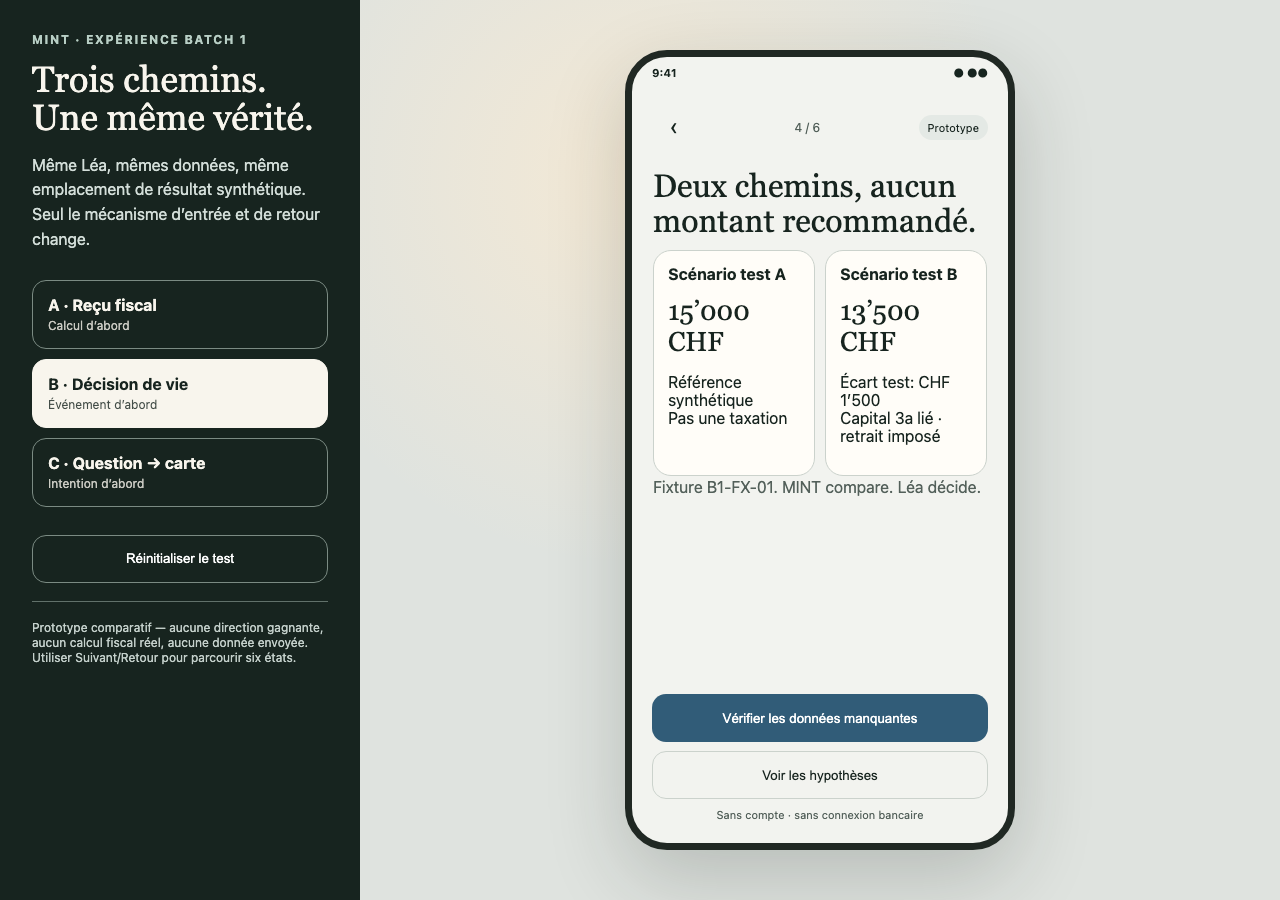
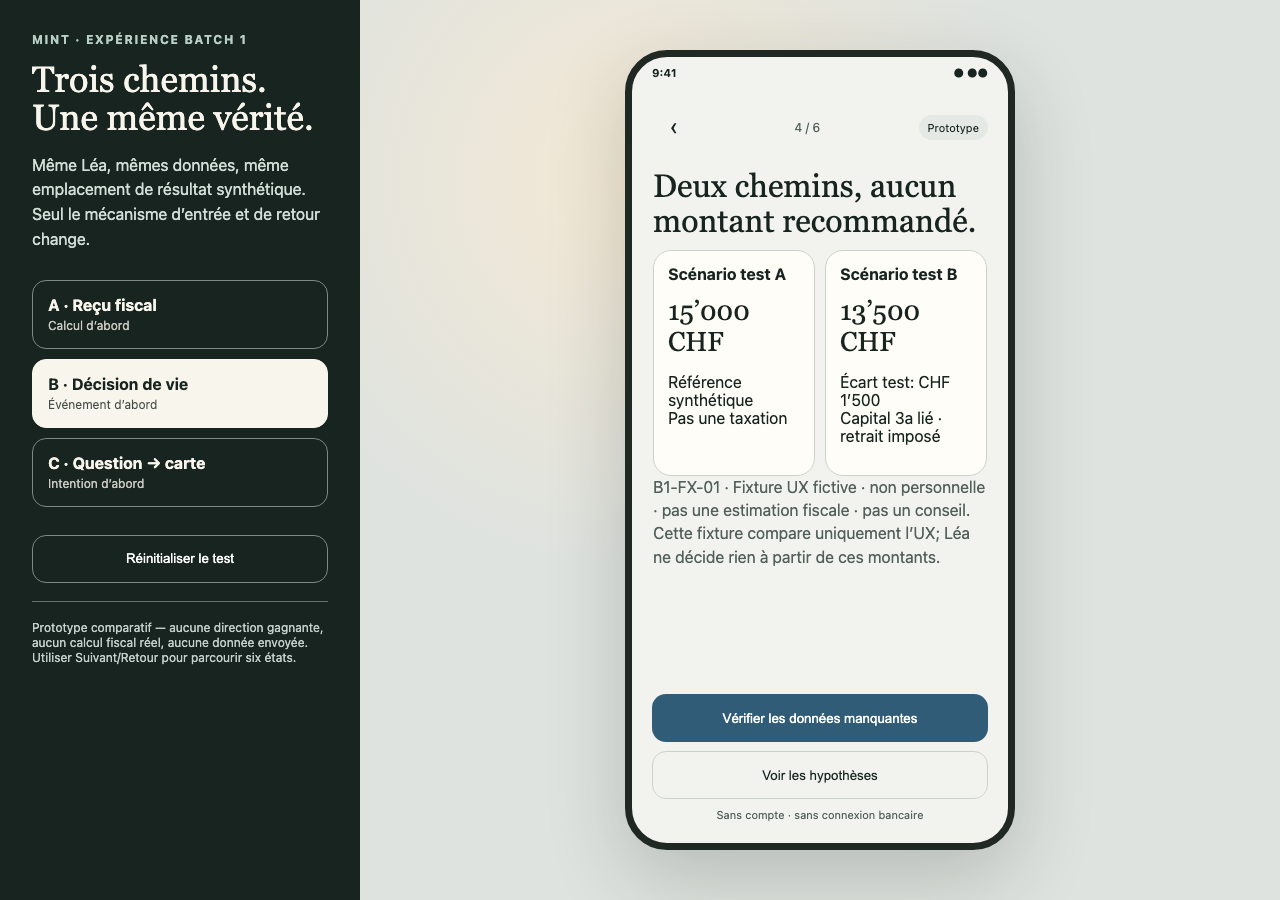
fix(mint-next): bind fixture safety semantics

Changed region(s): [[0.5, 0.5289, 0.7812, 0.6222]]

diff --git a/product/mint_next/batch1/prototype/index.html b/product/mint_next/batch1/prototype/index.html
@@ -39,29 +39,29 @@
   </section>
 </main>
 <script>
-const common={name:'Léa',canton:'Vaud',municipality:'Lausanne',income:"108’000 CHF",fixture:"CHF 1’500",fixtureId:'B1-FX-01',year:'2026',contribution:"2’400 CHF"};
+const common={name:'Léa',canton:'Vaud',municipality:'Lausanne',income:"108’000 CHF",fixture:"CHF 1’500",fixtureId:'B1-FX-01',year:'2026',contribution:"2’400 CHF",disclaimer:'Fixture UX fictive · non personnelle · pas une estimation fiscale · pas un conseil'};
 const state={corrections:{a:{},b:{},c:{}},saved:false};
 const edit=(label,value,alternative=`${value} · corrigé`)=>{const corrected=Boolean(state.corrections[dir]?.[label]);return `<button class="choice editable${corrected?' selected':''}" data-edit="${label}" aria-pressed="${corrected}"><span>${label}</span><b>${corrected?alternative:value}</b></button>`};
 const dirs={
 a:{cls:'direction-a',cta:['Commencer','Continuer','Préparer le scénario','Vérifier les données manquantes','Continuer','Enregistrer ce cap'],screens:[
-()=>`<div class="eyebrow">Fiscalité ${common.year}</div><h2>Quel pourrait être l’effet fiscal d’un versement 3a ?</h2><p class="lead">Quelques réponses préparent le calcul. Cette maquette n’en produit aucun.</p><div class="receipt"><div class="proof"><span>Compte requis</span><b>Non</b></div><div class="proof"><span>Temps cible</span><b>≈ 90 sec</b></div></div>`,
+()=>`<div class="eyebrow">Fiscalité ${common.year}</div><h2>Quel pourrait être l’effet fiscal d’un versement 3a ?</h2><p class="lead">Quelques réponses préparent le calcul. Cette maquette ne produit aucune estimation fiscale personnelle.</p><div class="receipt"><div class="proof"><span>Compte requis</span><b>Non</b></div><div class="proof"><span>Temps cible</span><b>≈ 90 sec</b></div></div>`,
 ()=>`<h2>Posons le contexte.</h2><p class="lead">Active un champ pour simuler sa correction.</p><div class="choices">${edit('Commune',common.municipality,'Nyon')}${edit('Revenu brut',common.income,"112’000 CHF")}${edit('Régime fiscal','Taxation ordinaire','À la source')}</div><p class="status-note">${Object.keys(state.corrections.a).length?'Valeur corrigée dans le prototype.':'Aucune correction simulée.'}</p>`,
 ()=>`<h2>Et côté prévoyance ?</h2><p class="lead">Un versement réduit la liquidité. Le capital 3a est lié et son retrait sera imposé séparément.</p><div class="choices">${edit('Domicile fiscal','Suisse')}${edit('Affiliation LPP','Oui')}${edit('Versement 3a déclaré',common.contribution)}</div>`,
-()=>`<h2>Scénario de test calculé</h2><div class="receipt"><div class="amount">${common.fixture}</div><div class="range">SIMULATION SYNTHÉTIQUE · PAS UNE ESTIMATION PERSONNELLE</div><div class="proof"><span>Calcul test</span><b>15’000 − 13’500</b></div><div class="proof"><span>Source</span><b>${common.fixtureId}</b></div><div class="proof"><span>Ce que ce n’est pas</span><b>Un conseil fiscal</b></div></div>`,
+()=>`<h2>Scénario de test calculé</h2><div class="receipt"><div class="amount">${common.fixture}</div><div class="range">${common.disclaimer}</div><div class="proof"><span>Calcul test</span><b>15’000 − 13’500</b></div><div class="proof"><span>Source</span><b>${common.fixtureId}</b></div><div class="proof"><span>Ce que ce n’est pas</span><b>Un conseil fiscal</b></div></div>`,
 ()=>`<h2>Données à vérifier avant un calcul.</h2><p class="lead">Commune, régime fiscal, revenu imposable, déductions et scénario comparé.</p><div class="choices">${edit('Commune',common.municipality,'Nyon')}${edit('Déductions','Incomplètes')}${edit('Scénario 3a','Aucun montant recommandé')}</div>`,
-()=>`<div class="eyebrow">Ton cap fiscal</div><h2>${state.saved?'Cap enregistré localement.':'Garder la question, pas une promesse.'}</h2><p class="lead">Le certificat de salaire peut améliorer une partie de l’estimation. D’autres informations resteront nécessaires.</p><div class="cap"><small>Prochaine étape commune</small><h3>Vérifier les données manquantes</h3><div class="proof"><span>Résultat actuel</span><b>Aucun</b></div></div>`]},
+()=>`<div class="eyebrow">Ton cap fiscal</div><h2>${state.saved?'Cap enregistré localement.':'Garder la question, pas une promesse.'}</h2><p class="lead">Le certificat de salaire peut améliorer une partie de l’estimation. D’autres informations resteront nécessaires.</p><div class="cap"><small>Prochaine étape commune</small><h3>Vérifier les données manquantes</h3><div class="proof"><span>Résultat fiscal personnel actuel</span><b>Aucun</b></div></div>`]},
 b:{cls:'direction-b',cta:['Choisir','Continuer','Préparer le scénario','Vérifier les données manquantes','Continuer','Enregistrer ce cap'],screens:[
 ()=>`<div class="eyebrow">Ta vie, pas un catalogue</div><h2>Qu’est-ce qui pourrait changer ?</h2><p class="lead">Les effets fiscaux sont un angle parmi la liquidité, la prévoyance et le risque.</p><div class="choices">${edit('Changer d’emploi','Sélectionné')}${edit('Couple ou famille','Explorer')}${edit('Logement','Explorer')}</div>`,
 ()=>`<h2>Changer d’emploi, en trois temps.</h2><div class="timeline"><div class="moment"><b>Maintenant</b><br><small>Comparer le net réel</small></div><div class="moment"><b>Bientôt</b><br><small>Vérifier LPP et risques</small></div><div class="moment"><b>Après</b><br><small>Examiner fiscalité et budget</small></div></div>`,
-()=>`<h2>Premier impact à préparer : les impôts.</h2><p class="lead">Le domicile, la commune, le régime et les déductions seront nécessaires.</p><div class="receipt"><div class="amount">${common.fixture}</div><div class="range">Fixture ${common.fixtureId} · simulation synthétique, pas une estimation</div></div>`,
-()=>`<h2>Deux chemins, aucun montant recommandé.</h2><div class="canvas"><div class="option"><strong>Scénario test A</strong><div class="signal">15’000 CHF</div><p>Référence synthétique<br>Pas une taxation</p></div><div class="option"><strong>Scénario test B</strong><div class="signal">13’500 CHF</div><p>Écart test: ${common.fixture}<br>Capital 3a lié · retrait imposé</p></div></div><p class="lead">Fixture ${common.fixtureId}. MINT compare. Léa décide.</p>`,
+()=>`<h2>Premier impact à préparer : les impôts.</h2><p class="lead">Le domicile, la commune, le régime et les déductions seront nécessaires.</p><div class="receipt"><div class="amount">${common.fixture}</div><div class="range">${common.fixtureId} · ${common.disclaimer}</div></div>`,
+()=>`<h2>Deux chemins, aucun montant recommandé.</h2><div class="canvas"><div class="option"><strong>Scénario test A</strong><div class="signal">15’000 CHF</div><p>Référence synthétique<br>Pas une taxation</p></div><div class="option"><strong>Scénario test B</strong><div class="signal">13’500 CHF</div><p>Écart test: ${common.fixture}<br>Capital 3a lié · retrait imposé</p></div></div><p class="lead">${common.fixtureId} · ${common.disclaimer}. Cette fixture compare uniquement l’UX; Léa ne décide rien à partir de ces montants.</p>`,
 ()=>`<h2>Corriger ce qui manque.</h2><div class="choices">${edit('Commune',common.municipality,'Nyon')}${edit('Régime fiscal','Ordinaire','À la source')}${edit('Déductions','Incomplètes','À documenter')}</div><p class="status-note">${Object.keys(state.corrections.b).length?'Valeur corrigée dans le prototype.':'Choisis une ligne pour simuler une correction.'}</p>`,
 ()=>`<div class="eyebrow">Plan vivant</div><h2>${state.saved?'Cap enregistré localement.':'Ton prochain geste, pas toute ta vie.'}</h2><div class="timeline"><div class="moment"><b>Maintenant</b><br><small>Vérifier les données manquantes</small></div><div class="moment"><b>Bientôt</b><br><small>Comparer l’offre nette</small></div><div class="moment"><b>Plus tard</b><br><small>Examiner la nouvelle LPP</small></div></div>`]},
 c:{cls:'direction-c',cta:['Choisir une question','Envoyer','Préparer le scénario','Vérifier les données manquantes','Continuer','Enregistrer ce cap'],screens:[
-()=>`<div class="eyebrow">Une question → un objet utile</div><h2>Qu’est-ce que tu veux éclaircir ?</h2><p class="lead">Le coach cadre la question. Il ne produit ni calcul ni recommandation.</p><div class="chips"><button class="chip editable" data-edit="Question fiscale">Explorer l’effet fiscal du 3a</button><button class="chip editable" data-edit="Question LPP">Comprendre ma LPP</button></div>`,
+()=>`<div class="eyebrow">Une question → un objet utile</div><h2>Qu’est-ce que tu veux éclaircir ?</h2><p class="lead">Le coach cadre la question. Il ne produit aucune estimation fiscale personnelle ni recommandation.</p><div class="chips"><button class="chip editable" data-edit="Question fiscale">Explorer l’effet fiscal du 3a</button><button class="chip editable" data-edit="Question LPP">Comprendre ma LPP</button></div>`,
 ()=>`<h2>La question de Léa</h2><div class="chat"><div class="bubble mint">Sur quoi veux-tu gagner en lucidité ?</div><div class="bubble user">Quel pourrait être l’effet fiscal d’un versement 3a ?</div></div>`,
 ()=>`<h2>Une clarification, sans promesse.</h2><div class="chat"><div class="bubble mint">Je peux préparer les données nécessaires. Quel montant as-tu déjà versé ?</div><div class="bubble user">Environ ${common.contribution}.</div><div class="bubble mint">Il faudra aussi le domicile, la commune, le régime et les déductions. Un versement réduit la liquidité; le capital est lié et le retrait imposé séparément.</div></div>`,
-()=>`<h2>Carte de scénario test</h2><div class="cap"><small>SIMULATION SYNTHÉTIQUE · PAS UNE ESTIMATION</small><div class="amount">${common.fixture}</div><p>15’000 − 13’500, uniquement pour comparer l’UX</p><div class="proof"><span>Source</span><b>${common.fixtureId}</b></div><div class="proof"><span>Statut</span><b>Calcul test</b></div></div>`,
+()=>`<h2>Carte de scénario test</h2><div class="cap"><small>${common.fixtureId} · ${common.disclaimer}</small><div class="amount">${common.fixture}</div><p>15’000 − 13’500, uniquement pour comparer l’UX</p><div class="proof"><span>Source</span><b>${common.fixtureId}</b></div><div class="proof"><span>Statut</span><b>Calcul test</b></div></div>`,
 ()=>`<h2>Corriger avant de calculer.</h2><div class="choices">${edit('Commune',common.municipality,'Nyon')}${edit('Régime fiscal','Ordinaire','À la source')}${edit('Déductions','Incomplètes','À documenter')}</div><p class="status-note">${Object.keys(state.corrections.c).length?'Valeur corrigée dans le prototype.':'Choisis une ligne pour simuler une correction.'}</p>`,
 ()=>`<div class="eyebrow">Aujourd’hui</div><h2>${state.saved?'Cap retrouvé après le retour.':'Épingler une question vérifiable.'}</h2><div class="cap"><small>CAP · AUCUN RÉSULTAT</small><h3>Vérifier les données fiscales manquantes</h3><div class="proof"><span>Certificat de salaire</span><b>Peut aider</b></div></div><p class="lead">Tu peux reprendre cet objet sans repasser par le chat.</p>`]}}
 let dir=new URLSearchParams(location.search).get('direction')||'a';if(!dirs[dir])dir='a';const requestedStep=new URLSearchParams(location.search).get('step');state.saved=localStorage.getItem(`mint-b1-${dir}`)==='saved';let index=requestedStep===null&&state.saved?5:Math.max(0,Math.min(5,Number(requestedStep)||0));const content=document.querySelector('#content'),phone=document.querySelector('#phone'),next=document.querySelector('#next'),back=document.querySelector('#back'),step=document.querySelector('#step'),explain=document.querySelector('#explain'),mode=document.querySelector('#mode');

diff --git a/tools/checks/mint_next_batch1_guard.py b/tools/checks/mint_next_batch1_guard.py
@@ -54,6 +54,9 @@ REQUIRED_THRESHOLDS = {
     "disabled_or_b1_critical_success_percent": 80,
     "minimum_major_segment_success_percent": 70, "route_dead_ends": 0,
 }
+REQUIRED_SEGMENTS = {"first_employment_18_25", "household_lpp_30_50", "pre_retirement_55_70", "low_income_or_b1", "assistive_technology"}
+REQUIRED_FIXTURE_LABELS = {"synthetic_test_fixture", "not_personalized", "not_tax_estimate", "not_advice"}
+REQUIRED_FIXTURE_PROHIBITIONS = {"swiss_tax_accuracy_claim", "contribution_recommendation", "production_calculation", "user_financial_decision"}
 FORBIDDEN_DISCORD = {
     "financial_data", "tax_data", "pension_data", "insurance_data", "bank_data",
     "avs_data", "prompt", "response", "auth_header", "token", "document",
@@ -137,7 +140,18 @@ def validate(root: Path) -> list[str]:
     fixture = _yaml(root, "tax_fixture", errors)
     fixture_inputs = fixture.get("inputs_chf", {})
     fixture_calc = fixture.get("calculation", {})
-    if fixture.get("fixture_id") != "B1-FX-01" or fixture.get("status") != "synthetic_ux_fixture_not_swiss_tax_result" or fixture_calc.get("result_chf") != fixture_inputs.get("synthetic_baseline_tax", 0) - fixture_inputs.get("synthetic_scenario_tax", 0):
+    fixture_display = fixture.get("required_display", {})
+    if (
+        fixture.get("fixture_id") != "B1-FX-01"
+        or fixture.get("status") != "synthetic_ux_fixture_not_swiss_tax_result"
+        or fixture.get("purpose") != "compare_result_comprehension_across_three_interaction_mechanisms"
+        or fixture_inputs != {"synthetic_baseline_tax": 15000, "synthetic_scenario_tax": 13500}
+        or fixture_calc != {"operation": "baseline_minus_scenario", "result_chf": 1500}
+        or fixture_display.get("amount") != "CHF_1500"
+        or fixture_display.get("source") != "B1-FX-01"
+        or set(fixture_display.get("labels", [])) != REQUIRED_FIXTURE_LABELS
+        or set(fixture.get("prohibited_use", [])) != REQUIRED_FIXTURE_PROHIBITIONS
+    ):
         errors.append("synthetic tax UX fixture must remain explicit and arithmetically reproducible")
     if not isinstance(result, dict) or result.get("range_chf") is not None or result.get("value") != 1500 or result.get("fixture_id") != "B1-FX-01" or result.get("number_state") != "synthetic_calculated_ux_fixture":
         errors.append("first value must use the common calculated synthetic fixture")
@@ -188,7 +202,7 @@ def validate(root: Path) -> list[str]:
     if not isinstance(falsification, dict) or set(falsification.get("required_reviews", [])) != REQUIRED_REVIEWS:
         errors.append("evaluation required reviews are incomplete")
     participants = evaluation.get("participant_coverage", {})
-    if not isinstance(participants, dict) or len(participants.get("segments", [])) < 5 or set(participants.get("languages_minimum", [])) != {"fr", "de"}:
+    if not isinstance(participants, dict) or set(participants.get("segments", [])) != REQUIRED_SEGMENTS or set(participants.get("languages_minimum", [])) != {"fr", "de"} or participants.get("cantons_must_contrast") is not True:
         errors.append("evaluation participant coverage is incomplete")
     metrics = set(evaluation.get("metrics", []))
     if metrics != REQUIRED_METRICS:
@@ -225,12 +239,12 @@ def validate(root: Path) -> list[str]:
         errors.append("Discord existence must not be overstated")
     coordination_evidence = _yaml(root, "coordination_evidence", errors)
     expected_coordination_sources = {
-        ("Slack_Free_feature_limitations", "https://slack.com/help/articles/27204752526611-Feature-limitations-on-the-free-version-of-Slack"),
-        ("Discord_webhooks", "https://docs.discord.com/developers/platform/webhooks"),
-        ("Discord_privacy", "https://discord.com/privacy"),
+        ("Slack_Free_feature_limitations", "https://slack.com/help/articles/27204752526611-Feature-limitations-on-the-free-version-of-Slack", frozenset({"ninety_day_search_window", "one_year_deletion", "ten_app_limit"})),
+        ("Discord_webhooks", "https://docs.discord.com/developers/platform/webhooks", frozenset({"incoming_webhook_without_persistent_bot"})),
+        ("Discord_privacy", "https://discord.com/privacy", frozenset({"not_a_swiss_financial_data_plane", "international_processing_risk"})),
     }
     actual_coordination_sources = {
-        (item.get("title"), item.get("url")) for item in coordination_evidence.get("sources", []) if isinstance(item, dict) and item.get("supports")
+        (item.get("title"), item.get("url"), frozenset(item.get("supports", []))) for item in coordination_evidence.get("sources", []) if isinstance(item, dict)
     }
     if actual_coordination_sources != expected_coordination_sources:
         errors.append("coordination evidence official sources are incomplete or have drifted")
@@ -265,11 +279,15 @@ def validate(root: Path) -> list[str]:
             errors.append("prototype must expose three direction selectors")
         if html.count("()=>`") != 18:
             errors.append("prototype must contain exactly 18 prototype states")
-        for phrase in ("Sans compte", "Voir les hypothèses", "B1-FX-01", "SIMULATION SYNTHÉTIQUE", "MINT compare. Léa décide.", "localStorage.setItem", "data-edit"):
+        for phrase in ("Sans compte", "Voir les hypothèses", "B1-FX-01", "Fixture UX fictive", "Léa ne décide rien à partir de ces montants", "localStorage.setItem", "data-edit"):
             if phrase not in html:
                 errors.append(f"prototype missing required contract phrase: {phrase}")
         if "900–1’700" in html or "Barème VD + tes réponses" in html or "moteur versionné" in html or "CHF X–Y" in html:
             errors.append("prototype must not present the removed fictitious fiscal provenance")
+        if html.count("${common.disclaimer}") != 4 or "non personnelle · pas une estimation fiscale · pas un conseil" not in html:
+            errors.append("every numeric fixture surface must carry the canonical adjacent disclaimer")
+        if "Cette maquette n’en produit aucun" in html or "Il ne produit ni calcul" in html or "MINT compare. Léa décide." in html:
+            errors.append("fixture copy must not contradict test arithmetic or imply a personal decision")
         if html.count("Vérifier les données manquantes") < 3:
             errors.append("prototype directions must expose the same primary missing-data action")
 

diff --git a/tools/checks/tests/test_mint_next_batch1_guard.py b/tools/checks/tests/test_mint_next_batch1_guard.py
@@ -188,6 +188,15 @@ def test_guard_rejects_removed_coordination_sources(tmp_path: Path) -> None:
     assert "official sources" in proc.stderr
 
 
+def test_guard_rejects_falsified_coordination_support_claims(tmp_path: Path) -> None:
+    _copy(tmp_path)
+    path = tmp_path / ROOT / "coordination-evidence.yaml"
+    path.write_text(path.read_text(encoding="utf-8").replace("supports: [ninety_day_search_window, one_year_deletion, ten_app_limit]", "supports: [invented_claim]"), encoding="utf-8")
+    proc = _run(tmp_path)
+    assert proc.returncode == 1
+    assert "official sources" in proc.stderr
+
+
 def test_guard_rejects_evidable_evaluation_protocol(tmp_path: Path) -> None:
     _copy(tmp_path)
     path = tmp_path / ROOT / "evaluation.yaml"
@@ -201,6 +210,24 @@ def test_guard_rejects_evidable_evaluation_protocol(tmp_path: Path) -> None:
     assert proc.returncode == 1
     assert "metrics are incomplete" in proc.stderr
     assert "thresholds are incomplete" in proc.stderr
+
+
+def test_guard_rejects_arbitrary_participant_segments(tmp_path: Path) -> None:
+    _copy(tmp_path)
+    path = tmp_path / ROOT / "evaluation.yaml"
+    path.write_text(path.read_text(encoding="utf-8").replace("segments: [first_employment_18_25, household_lpp_30_50, pre_retirement_55_70, low_income_or_b1, assistive_technology]", "segments: [a, b, c, d, e]"), encoding="utf-8")
+    proc = _run(tmp_path)
+    assert proc.returncode == 1
+    assert "participant coverage" in proc.stderr
+
+
+def test_guard_rejects_removed_fixture_safety_contract(tmp_path: Path) -> None:
+    _copy(tmp_path)
+    path = tmp_path / ROOT / "tax-fixture.yaml"
+    path.write_text(path.read_text(encoding="utf-8").replace("purpose: compare_result_comprehension_across_three_interaction_mechanisms", "purpose: convince_users_to_contribute").replace("  labels: [synthetic_test_fixture, not_personalized, not_tax_estimate, not_advice]", "  labels: []"), encoding="utf-8")
+    proc = _run(tmp_path)
+    assert proc.returncode == 1
+    assert "synthetic tax UX fixture" in proc.stderr
 
 
 def test_guard_rejects_root_level_inventory_boilerplate(tmp_path: Path) -> None:

diff --git a/tools/checks/mint_next_batch1_runtime_probe.py b/tools/checks/mint_next_batch1_runtime_probe.py
@@ -13,9 +13,9 @@ from urllib.parse import urlencode
 
 HTML = Path("product/mint_next/batch1/prototype/index.html")
 CASES = [
-    ({"direction": "a", "step": 3}, ["4 / 6", "CHF 1’500", "B1-FX-01", "PAS UNE ESTIMATION PERSONNELLE"]),
-    ({"direction": "b", "step": 3}, ["4 / 6", "CHF 1’500", "MINT compare. Léa décide."]),
-    ({"direction": "c", "step": 3}, ["4 / 6", "CHF 1’500", "B1-FX-01", "PAS UNE ESTIMATION"]),
+    ({"direction": "a", "step": 3}, ["4 / 6", "CHF 1’500", "B1-FX-01", "non personnelle", "pas un conseil"]),
+    ({"direction": "b", "step": 3}, ["4 / 6", "CHF 1’500", "non personnelle", "Léa ne décide rien à partir de ces montants"]),
+    ({"direction": "c", "step": 3}, ["4 / 6", "CHF 1’500", "B1-FX-01", "non personnelle", "pas un conseil"]),
     ({"direction": "a", "probe": "correction"}, ["2 / 6", "Nyon", "Valeur corrigée", 'aria-pressed="true"']),
     ({"direction": "a", "probe": "correction_journey"}, ["5 / 6", "Nyon", 'aria-pressed="true"']),
     ({"direction": "b", "probe": "back"}, ["4 / 6", "Deux chemins, aucun montant recommandé"]),
